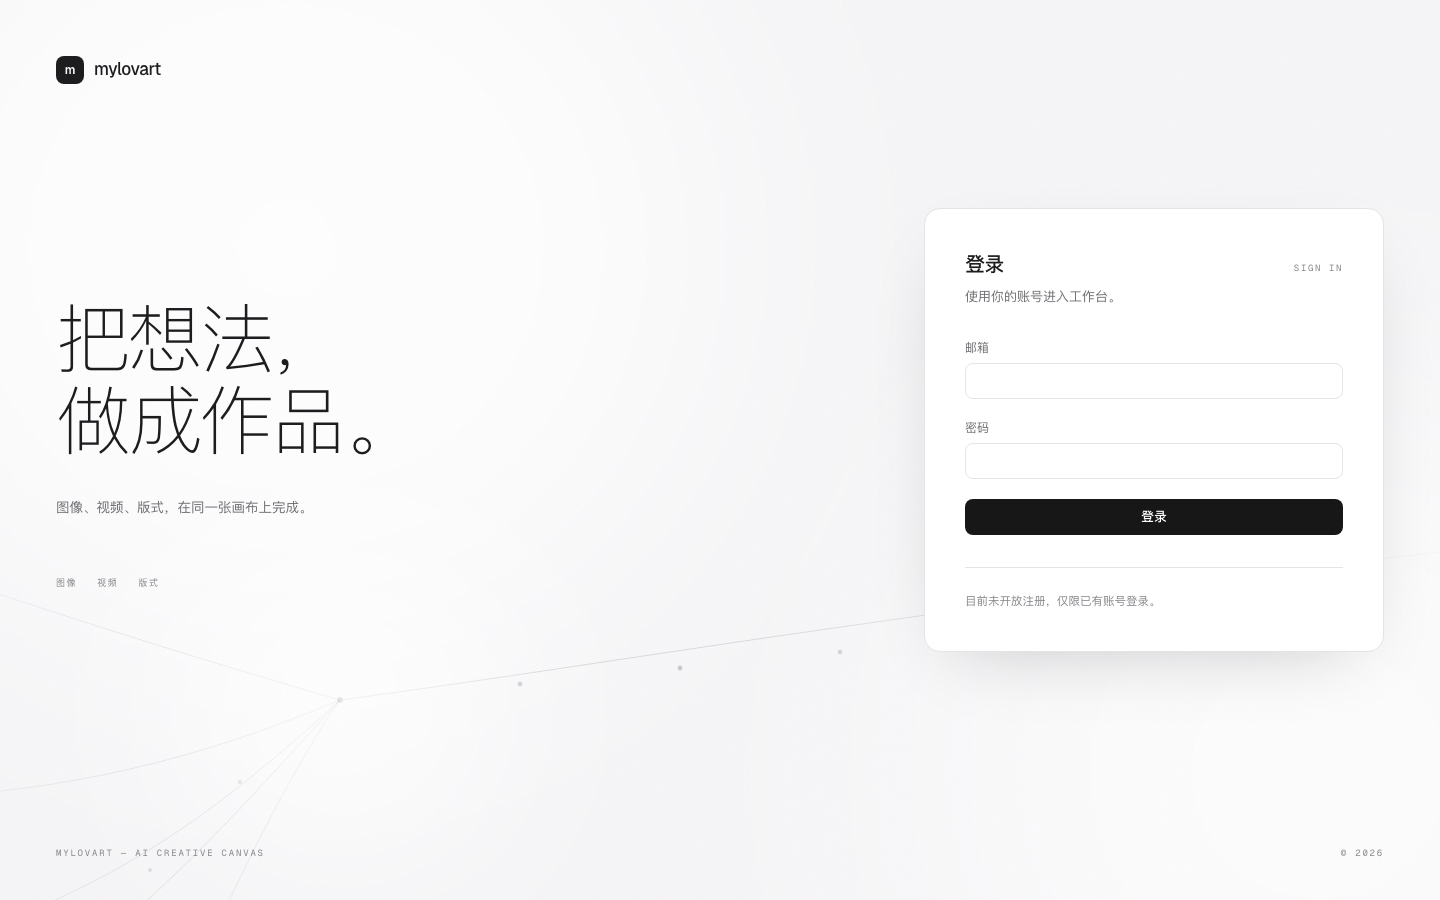
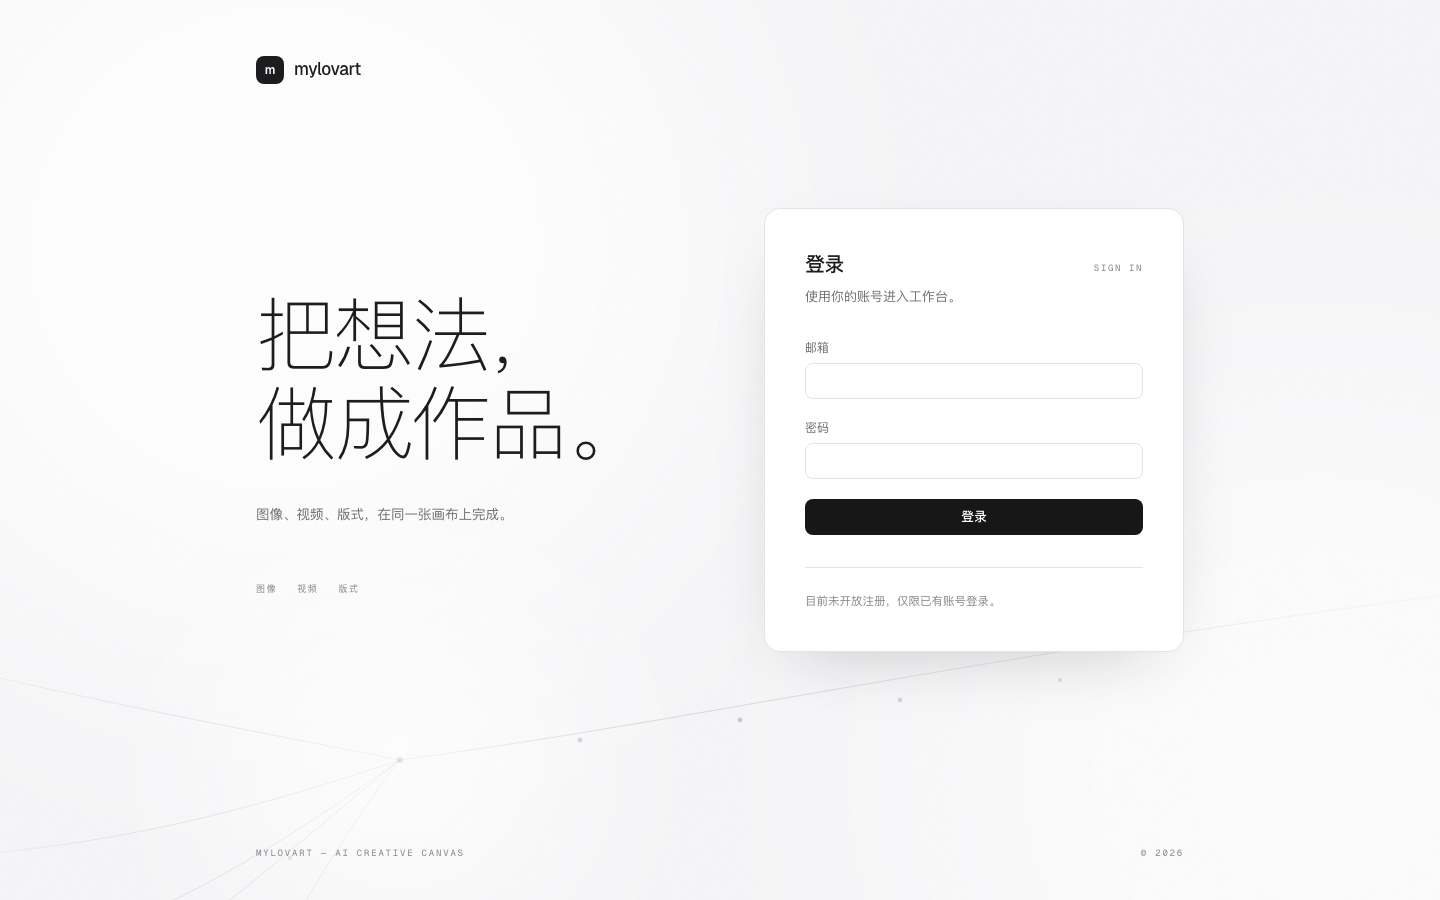
style: 收窄内容区，调整两栏间距与标题字号

diff --git a/apps/web/src/components/haze-canvas.tsx b/apps/web/src/components/haze-canvas.tsx
@@ -25,30 +25,30 @@ export function HazeCanvas() {
         </defs>
 
         <g strokeWidth="1" strokeLinecap="round" stroke="url(#in-left)" strokeOpacity="0.16">
-          <path d="M-160,1100 C80,1000 220,830 340,700" />
-          <path d="M-160,960 C80,930 230,800 340,700" />
-          <path d="M-160,800 C70,800 220,750 340,700" />
-          <path d="M-160,540 C70,620 220,665 340,700" />
-          <path d="M120,1150 C190,980 270,800 340,700" />
+          <path d="M-160,1120 C90,1040 250,880 400,760" />
+          <path d="M-160,1000 C90,970 260,860 400,760" />
+          <path d="M-160,860 C80,860 250,810 400,760" />
+          <path d="M-160,640 C80,700 250,730 400,760" />
+          <path d="M150,1160 C230,1040 320,860 400,760" />
         </g>
 
         <g strokeWidth="1" strokeLinecap="round" stroke="url(#out-right)" strokeOpacity="0.18">
-          <path d="M340,700 C640,660 960,600 1560,540" />
+          <path d="M400,760 C700,720 1000,650 1560,580" />
         </g>
 
         <g fill="#1d1d1f">
-          <circle cx="340" cy="700" r="3" opacity="0.3" />
-          <circle cx="520" cy="684" r="2.4" opacity="0.22" />
-          <circle cx="680" cy="668" r="2.4" opacity="0.2" />
-          <circle cx="840" cy="652" r="2.2" opacity="0.16" />
-          <circle cx="1000" cy="636" r="2" opacity="0.12" />
-          <circle cx="240" cy="782" r="2.2" opacity="0.16" />
-          <circle cx="150" cy="870" r="2" opacity="0.12" />
+          <circle cx="400" cy="760" r="3" opacity="0.3" />
+          <circle cx="580" cy="740" r="2.4" opacity="0.22" />
+          <circle cx="740" cy="720" r="2.4" opacity="0.2" />
+          <circle cx="900" cy="700" r="2.2" opacity="0.16" />
+          <circle cx="1060" cy="680" r="2" opacity="0.12" />
+          <circle cx="290" cy="858" r="2.2" opacity="0.16" />
+          <circle cx="200" cy="948" r="2" opacity="0.12" />
         </g>
       </svg>
 
       {/* 交点处一团柔光 */}
-      <div className="absolute left-[340px] top-[700px] h-[340px] w-[340px] -translate-x-1/2 -translate-y-1/2 rounded-full bg-white/75 blur-[80px]" />
+      <div className="absolute left-[400px] top-[760px] h-[340px] w-[340px] -translate-x-1/2 -translate-y-1/2 rounded-full bg-white/75 blur-[80px]" />
 
       <div
         className="absolute inset-0 opacity-[0.025] mix-blend-multiply"

diff --git a/apps/web/src/app/page.tsx b/apps/web/src/app/page.tsx
@@ -8,7 +8,7 @@ export default function Home() {
     <div className="relative min-h-dvh overflow-hidden bg-canvas">
       <HazeCanvas />
 
-      <div className="relative z-10 grid min-h-dvh gap-12 px-7 pb-24 pt-10 lg:grid-cols-[1fr_460px] lg:items-stretch lg:gap-16 lg:px-14 lg:pb-24 lg:pt-14">
+      <div className="relative z-10 mx-auto grid min-h-dvh w-full max-w-[1040px] gap-12 px-7 pb-24 pt-10 lg:grid-cols-[1fr_420px] lg:items-stretch lg:gap-10 lg:px-14 lg:pb-24 lg:pt-14">
         <div className="flex flex-col lg:h-full">
           <div className="flex items-center gap-2.5">
             <span className="grid size-[28px] place-items-center rounded-[8px] bg-ink text-[12px] font-semibold text-white">
@@ -18,7 +18,7 @@ export default function Home() {
           </div>
 
           <div className="flex flex-1 flex-col justify-center py-16 lg:py-0">
-            <h1 className="max-w-[560px] text-[clamp(40px,5.2vw,76px)] font-light leading-[1.1] tracking-[-0.04em] text-ink">
+            <h1 className="max-w-[600px] text-[clamp(40px,5.6vw,84px)] font-light leading-[1.1] tracking-[-0.04em] text-ink">
               把想法，
               <br />
               做成作品。
@@ -57,7 +57,7 @@ export default function Home() {
         </div>
       </div>
 
-      <div className="absolute inset-x-0 bottom-0 z-10 flex items-center justify-between px-7 pb-8 lg:px-14 lg:pb-10">
+      <div className="absolute inset-x-0 bottom-0 z-10 mx-auto flex w-full max-w-[1040px] items-center justify-between px-7 pb-8 lg:px-14 lg:pb-10">
         <span className="font-mono text-[9px] tracking-[0.2em] text-faint">
           MYLOVART — AI CREATIVE CANVAS
         </span>

diff --git a/docs/DESIGN.md b/docs/DESIGN.md
@@ -50,9 +50,12 @@
 
 ## 首页结构
 
-- 版式：左栏 `1fr` + 右栏 `460px`，左栏 `h-full` 用 `flex-col`：字标置顶 → 内容居中 → 底部留白
+- 内容区 **`max-w-[1040px]` 居中**，不要拉满整屏——拉满会把两栏推得太远，中间出现大片空洞
+- 版式：左栏 `1fr` + 右栏 `420px`，间距 `gap-10`（40px）；两栏之间视觉空隙控制在 150–180px
+- 左栏 `h-full` 用 `flex-col`：字标置顶 → 内容垂直居中 → 底部留白
+- 标题 `clamp(40px, 5.6vw, 84px)`——字号要撑到接近左栏宽度，否则右半边会空
 - 登录卡：`p-10`、20px 标题、右上角 `SIGN IN` 等宽小字、底部一条细线分隔说明
-- 页脚绝对定位在页面底部，跨两栏，等宽小字左标右年份
+- 页脚绝对定位在页面底部，与内容同宽，等宽小字左标右年份
 
 ## 工作台
 
